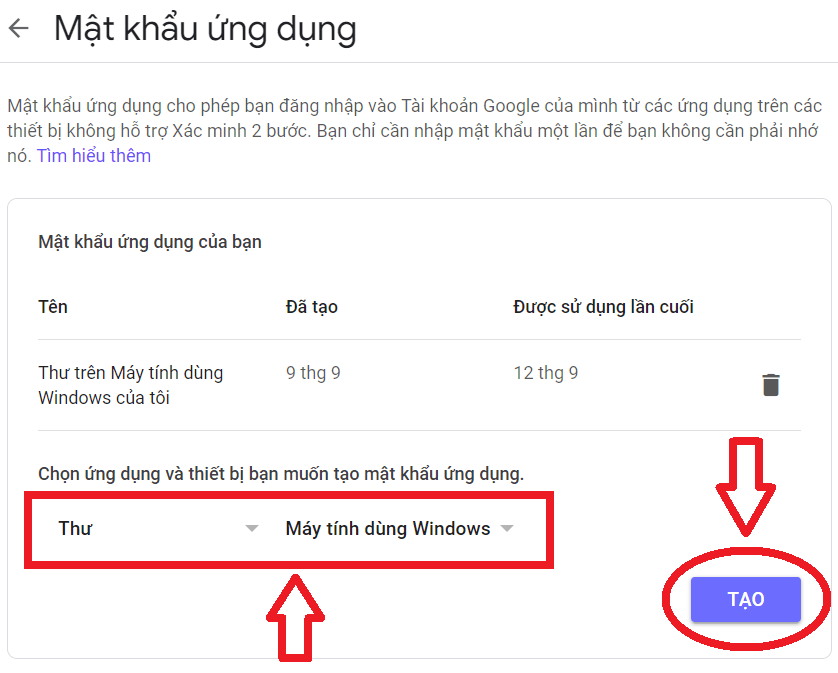
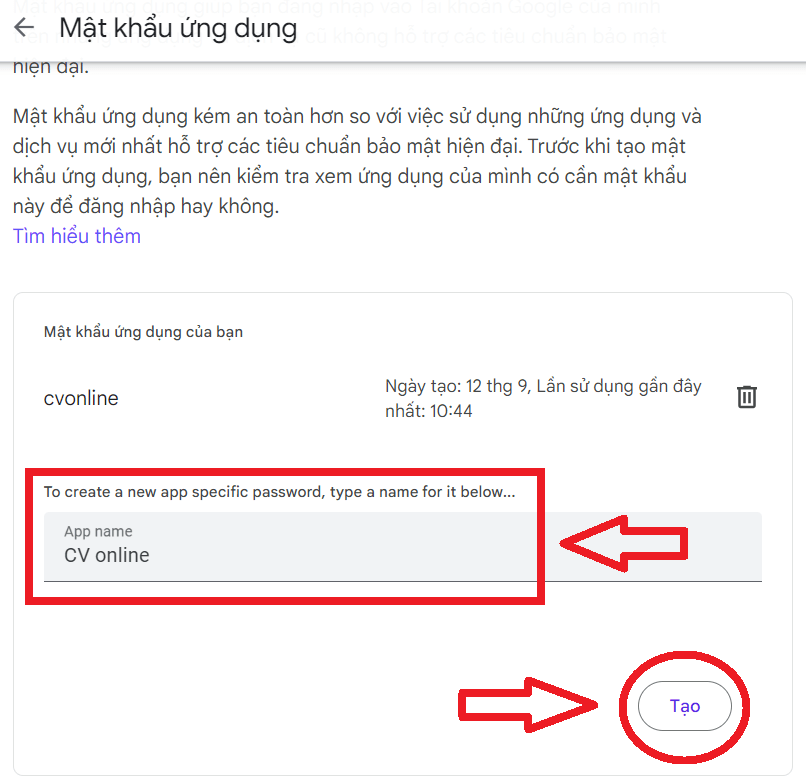
Fix bug all project

diff --git a/React/src/pages/CVPage/CVPage.js b/React/src/pages/CVPage/CVPage.js
@@ -158,7 +158,6 @@ class PersonalLayout extends PureComponent {
     // =================================================================
     async componentDidMount() {
         const { paramId } = this.props?.match?.params ?? {};
-        const { history } = this.props;
 
         // Read CV Layout
         if (paramId) {
@@ -174,8 +173,7 @@ class PersonalLayout extends PureComponent {
             Toast.TOP_CENTER_ERROR('Không tìm thấy ID người dùng, vui lòng đăng nhập lại', 3500);
 
             this.redirectID.current = setTimeout(() => {
-                this.props.userSignOut();
-                history.push('/signin');
+                this.props.userSignOutAndRedirectToSignIn();
             }, 2000);
         }
 
@@ -221,6 +219,7 @@ class PersonalLayout extends PureComponent {
         // Change to another CV
         if (this.props?.match?.params.paramId !== prevProps?.match?.params.paramId) {
             this.props.readCVLayout(paramId);
+            window.scrollTo({ top: 0, behavior: 'smooth' });
         }
     }
 
@@ -532,7 +531,7 @@ const mapDispatchToProps = (dispatch) => {
         moveProduct: (data, index) => dispatch(userActions.moveProduct(data, index)),
 
         // Sign out
-        userSignOut: () => dispatch(userActions.userSignOut()),
+        userSignOutAndRedirectToSignIn: () => dispatch(userActions.userSignOutAndRedirectToSignIn()),
     };
 };
 

diff --git a/React/src/components/Modal/GetGoogleAppPasswordModal.js b/React/src/components/Modal/GetGoogleAppPasswordModal.js
@@ -101,12 +101,12 @@ class GetGoogleAppPasswordModal extends PureComponent {
                                 <img className={cx('image', 'step-4')} src={googleAppPasswordGuide.guide4} alt="" />
                             </div>
                             <div className={cx('guide-container')}>
-                                <p className={cx('text')}>Bước 5 : Thiết lập như hình. Sau đó nhấn "Tạo"</p>
+                                <p className={cx('text')}>Bước 5 : Đặt tên cho Mật khẩu ứng dụng. Sau đó nhấn "Tạo"</p>
                                 <img className={cx('image', 'step-5')} src={googleAppPasswordGuide.guide5} alt="" />
                             </div>
                             <div className={cx('guide-container')}>
                                 <p className={cx('text')}>
-                                    Bước 6 : Sao chép chuỗi mật khẩu ứng dụng và dán vào ô "Nhập Google App Password"
+                                    Bước 6 : Sao chép chuỗi Mật khẩu ứng dụng và dán vào ô "Nhập Google App Password"
                                     bên trên. Sau đó nhấn "Xong"
                                 </p>
                                 <img className={cx('image', 'step-6')} src={googleAppPasswordGuide.guide6} alt="" />

diff --git a/React/src/pages/CVPage/Components/Product.js b/React/src/pages/CVPage/Components/Product.js
@@ -337,6 +337,29 @@ class Product extends PureComponent {
 
         // Set display BE, FE Technology
         this.displayJobPositionLayout(jobTitle);
+
+        // Reset parameters when change param URL
+        if (prevProps.userInfo !== this.props.userInfo) {
+            this.setState({
+                isFE: true,
+                FE_isPagination: true,
+                FE_Page: 1,
+                FE_PageSize: 10,
+                FE_sortBy: '',
+                FE_isSearch: false,
+                FE_searchInputValue: '',
+
+                isBE: true,
+                BE_isPagination: true,
+                BE_Page: 1,
+                BE_PageSize: 10,
+                BE_sortBy: '',
+                BE_isSearch: false,
+                BE_searchInputValue: '',
+
+                isChangeImageModalOpen: false,
+            });
+        }
     }
 
     async componentDidMount() {

diff --git a/Express/src/services/emailService.js b/Express/src/services/emailService.js
@@ -467,7 +467,7 @@ export const handleSendCVByEmail = async (data, pdfFile) => {
                     <div style="margin-top: 40px">
                         <p
                             style="
-                                width: 420px;
+                                width: 300px;
                                 margin: 16px auto 30px;
                                 padding: 6px 8px;
                                 font-size: 20px;

diff --git a/React/src/store/actions/userActions.js b/React/src/store/actions/userActions.js
@@ -137,6 +137,7 @@ export const userSignOut = () => {
     };
 };
 
+// USER SIGN OUT AND REDIRECT TO SIGIN IN PAGE
 export const userSignOutAndRedirectToSignIn = () => {
     return {
         type: actionNames.USER_SIGNOUT_REDIRECT_TO_SIGNIN,
